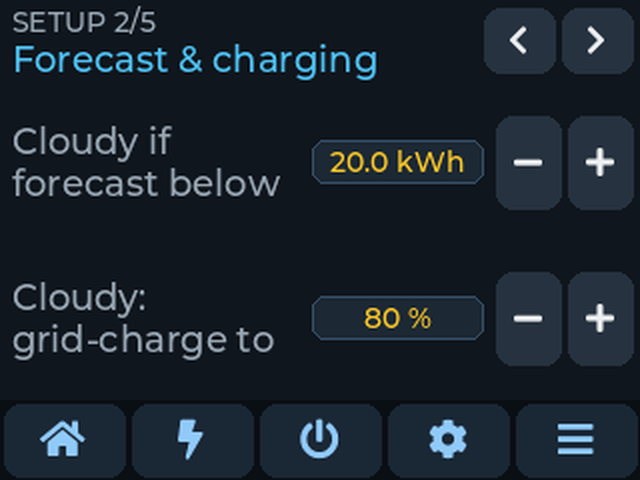
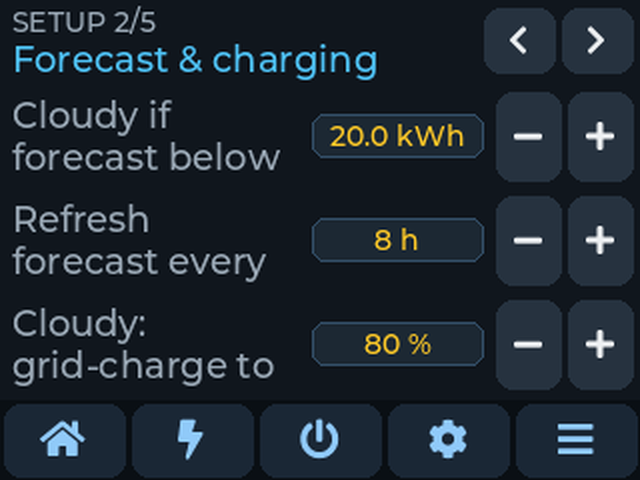
Forecast refresh interval adjustable: 2-8 h (default 2)
New setting "Forecast Refresh" on Setup > Forecast & charging and in HA.
Failed fetches still retry after 1 min (15 min after HTTP 429).

Changed region(s): [[0.4688, 0.1875, 1.0, 0.8125], [0.0, 0.1875, 0.4375, 0.8125], [0.4688, 0.4688, 0.5, 0.5312]]

diff --git a/tools/cyd_settings.py b/tools/cyd_settings.py
@@ -9,6 +9,7 @@ cyd_ui.py (screen rows). All settings are exposed to Home Assistant (entity_cate
 NUMBERS = [
     # --- reserve planner (handoff 4A)
     ("n_cloudy_kwh", "Cloudy Below", "kWh", 0, 20, 0.5, 5, "Cloudy if forecast below", "%.1f kWh", ""),
+    ("n_fc_interval_h", "Forecast Refresh", "h", 2, 8, 1, 2, "Refresh forecast every", "%.0f h", ""),
     ("n_sunny_sw", "Sunny Day Switch SOC", "%", 16, 37, 1, 18, "Sunny: grid below", "%.0f %%", ""),
     ("n_sunny_ret", "Sunny Day Return SOC", "%", 25, 40, 1, 25, "Sunny: battery above", "%.0f %%", ""),
     ("n_cloudy_sw", "Cloudy Day Switch SOC", "%", 16, 37, 1, 25, "Cloudy: grid below", "%.0f %%", ""),
@@ -89,7 +90,7 @@ BY_ID = {n[0]: n for n in NUMBERS}
 # (page id, group, title, setting ids) - order = order on screen within the group.
 VPAGES = [
     ("page_s_res", "SETUP", "Battery reserve", ["n_sunny_sw", "n_sunny_ret", "n_cloudy_sw", "n_cloudy_ret"]),
-    ("page_s_plan", "SETUP", "Forecast & charging", ["n_cloudy_kwh", "n_chg_target"]),
+    ("page_s_plan", "SETUP", "Forecast & charging", ["n_cloudy_kwh", "n_fc_interval_h", "n_chg_target"]),
     ("page_a_high1", "ADVANCED", "High load", ["n_high_on_w", "n_high_on_s", "n_high_off_w", "n_high_off_s"]),
     ("page_a_high2", "ADVANCED", "High load limits", ["n_high_max_soc", "n_high_max_pv"]),
     ("page_a_night1", "ADVANCED", "Night load on", ["n_night_on_w", "n_night_on_s", "n_night_max_soc"]),

diff --git a/tools/cyd_readme.py b/tools/cyd_readme.py
@@ -12,7 +12,7 @@ from cyd_settings import NUMBERS, SWITCHES  # noqa: E402
 
 # (group title, first id of the group) in the order of cyd_settings.NUMBERS
 GROUPS = [
-    ("Reserve planner", "n_cloudy_kwh"),
+    ("Reserve planner and forecast", "n_cloudy_kwh"),
     ("Charger manager", "n_chg_target"),
     ("Overnight rule", "n_ovn_floor"),
     ("Timing and float voltage", "n_low_delay"),

diff --git a/README.md b/README.md
@@ -120,7 +120,7 @@ if it differs. Switch: Rule Float Voltage.
 ### Solar forecast
 Forecast.Solar (free API, HTTPS) for this location and the **PV Array Size / Tilt / Azimuth**
 settings (default 2 kWp, 40°, south): today's and tomorrow's kWh plus today's power curve
-("solar now"). Fetched about a minute after boot, then every 2 h; after a failure every 1 min
+("solar now"). Fetched about a minute after boot, then every **Forecast Refresh** hours (2 to 8, default 2); after a failure every 1 min
 (15 min after HTTP 429, the free rate limit). Every failure is logged under the tag `fc` and shown
 on Info → Projections and in the **Forecast Status** sensor. The fetch is skipped when free memory
 is below 45 KB (largest block 24 KB).
@@ -186,11 +186,12 @@ All settings are on the screen or in Home Assistant (entity category *config*), 
 This list is generated from `tools/cyd_settings.py` by `tools/cyd_readme.py`.
 
 <!-- settings:begin -->
-**Reserve planner**
+**Reserve planner and forecast**
 
 | Setting (HA name) | Default | Range | Step | On screen | Kept by Restore defaults |
 |---|---|---|---|---|---|
 | Cloudy Below | 5 kWh | 0 to 20 | 0.5 | yes | no |
+| Forecast Refresh | 2 h | 2 to 8 | 1 | yes | no |
 | Sunny Day Switch SOC | 18 % | 16 to 37 | 1 | yes | no |
 | Sunny Day Return SOC | 25 % | 25 to 40 | 1 | yes | no |
 | Cloudy Day Switch SOC | 25 % | 16 to 37 | 1 | yes | no |
